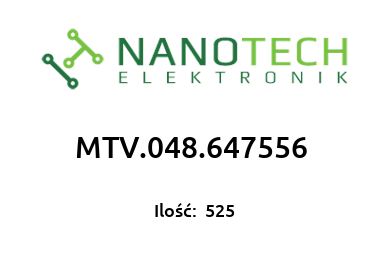
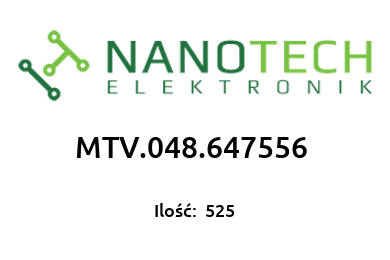
Dodanie nowych funckji

Changed region(s): [[0.0308, 0.0923, 0.9538, 0.4], [0.9231, 0.3077, 0.9538, 0.3692]]

diff --git a/main.py b/main.py
@@ -1,5 +1,9 @@
 from PIL import Image, ImageWin, ImageDraw, ImageFont
 import re
+import sys
+import win32com.client
+import win32ui
+
 
 LOGO_NANOTECH_PATH = r"assets\nanotech_logo.png"
 GENERATED_STICKERS_PATH = r"wygenerowane_naklejki"
@@ -13,71 +17,117 @@ def clean_pcb_name(text):
     cleaned_text = re.sub(r'\{.*?\}', '', text)
     return cleaned_text
 
-def generate_sticker(sticker_size:str, pcb_name:str, qty:str):
-    """ Funkcja generująca naklejkę na płytki PCB """
+def generate_sticker(pcb_name:str, qty:str):
+    """ Funkcja generująca naklejkę na płytki PCB na etykiecie o rozmiarze '50x30' 
+        Zwraca ścieżkę do naklejki"""
 
-    if sticker_size == "50x30":
+    # Utwórz pustą naklejkę
+    sticker = Image.new(mode='RGBA', size=(390,260), color='white')
+    sticker_width = sticker.size[0]
 
-        # Utwórz pustą naklejkę
-        sticker = Image.new(mode='RGBA', size=(390,260), color='white')
-        sticker_width = sticker.size[0]
+    # Utwórz 'ołówek'
+    pencil = ImageDraw.Draw(sticker)
 
-        # Utwórz 'ołówek'
-        pencil = ImageDraw.Draw(sticker)
+    # Załaduj logo
+    logo = Image.open(LOGO_NANOTECH_PATH).convert("RGBA")
 
-        # Załaduj logo
-        logo = Image.open(LOGO_NANOTECH_PATH).convert("RGBA")
+    # Tu można łatwo dostosować rozmiar loga zmieniając parametr 'percent_of_increase'
+    original_logo_w, original_logo_h = (340, 83)
+    percent_of_increase = 0.1
 
-        # Tu można łatwo dostosować rozmiar loga zmieniając parametr 'percent_of_increase'
-        original_logo_w, original_logo_h = (340, 83)
-        percent_of_increase = -0.05
+    new_logo_w = int(original_logo_w + original_logo_w * percent_of_increase)
+    new_logo_h = int(original_logo_h + original_logo_h * percent_of_increase)
 
-        new_logo_w = int(original_logo_w + original_logo_w * percent_of_increase)
-        new_logo_h = int(original_logo_h + original_logo_h * percent_of_increase)
+    logo = logo.resize((new_logo_w, new_logo_h))
 
-        logo = logo.resize((new_logo_w, new_logo_h))
+    # Dodaj logo do tła
+    sticker.paste(logo, ((sticker_width - new_logo_w) // 2 ,20), logo)
+    
+    # Załaduj czcionkę
+    font_size = 30
+    pcb_name_font = ImageFont.truetype(font=FONT_PATH, size=font_size)
 
-        # Dodaj logo do tła
-        sticker.paste(logo, ((sticker_width - new_logo_w) // 2 ,20), logo)
-        
-        # Załaduj czcionkę
-        font_size = 30
+    # Oblicz długość linijki z tekstem
+    text_lenght = pencil.textlength(text=pcb_name, font=pcb_name_font)
+
+    # Jeśli tekst jest zbyt długi zmniejsz czcionkę
+    while (text_lenght + 20) >= sticker_width:
+        font_size -= 1
         pcb_name_font = ImageFont.truetype(font=FONT_PATH, size=font_size)
-
-        # Oblicz długość linijki z tekstem
         text_lenght = pencil.textlength(text=pcb_name, font=pcb_name_font)
+        print(f"Zmniejszam czcionkę do: {font_size}")
 
-        # Jeśli tekst jest zbyt długi zmniejsz czcionkę
-        while (text_lenght + 20) >= sticker_width:
-            font_size -= 1
-            pcb_name_font = ImageFont.truetype(font=FONT_PATH, size=font_size)
-            text_lenght = pencil.textlength(text=pcb_name, font=pcb_name_font)
-            print(f"Zmniejszam czcionkę do: {font_size}")
+    # Oblicz koordynaty dla nazwy PCB
+    pcb_name_coords = ((sticker_width - text_lenght) // 2, 130)
 
-        # Oblicz koordynaty dla nazwy PCB
-        pcb_name_coords = ((sticker_width - text_lenght) // 2, 130)
+    # Dodaj napis z nazwą PCB
+    pencil.text(pcb_name_coords, pcb_name, font=pcb_name_font, fill=(0, 0, 0, 255))
 
-        # Dodaj napis z nazwą PCB
-        pencil.text(pcb_name_coords, pcb_name, font=pcb_name_font, fill=(0, 0, 0, 255))
+    # Dodaj napis 'Ilość:'
+    qty_text = f"Ilość:  {qty}"
+    qty_name_font = ImageFont.truetype(font=FONT_PATH, size=18)
+    qty_text_lenght = pencil.textlength(text=qty_text, font=qty_name_font)
+    pencil.text(((sticker_width - qty_text_lenght) // 2, 200) , qty_text, font=qty_name_font, fill=(0, 0, 0, 255))
+    
+    sticker_path = sticker.save(f"{GENERATED_STICKERS_PATH}\\the_sticker{number}.png")
+    sticker.show(f"{sticker_path}")
 
-        # Dodaj napis 'Ilość:'
-        qty_text = f"Ilość:  {qty}"
-        qty_name_font = ImageFont.truetype(font=FONT_PATH, size=18)
-        qty_text_lenght = pencil.textlength(text=qty_text, font=qty_name_font)
-        pencil.text(((sticker_width - qty_text_lenght) // 2, 200) , qty_text, font=qty_name_font, fill=(0, 0, 0, 255))
+    return sticker_path
+
+def print_sticker(sticker_path, printer_name):
+    """ Funkcja drukująca naklejkę o na etykiecie o wymiarach '50x30' """
+
+    # Inicjalizacja obiektu kontekstu urządzenia (Device Context - hDC)
+    hDC = win32ui.CreateDC()
+
+    # Utworzenie kontekstu urządzenia związanego z drukarką o określonej nazwie
+    hDC.CreatePrinterDC(printer_name)
+
+    # Otwarcie pliku z obrazkiem etykiety
+    bmp = Image.open(sticker_path)
+
+    # Rozpoczęcie drukowania - inicjacja dokumentu i strony
+    hDC.StartDoc(sticker_path)
+    hDC.StartPage()
+
+    # Utworzenie obiektu Dib na podstawie obrazka
+    dib = ImageWin.Dib(bmp)
+
+    # Narysowanie obrazka na kontekście urządzenia
+    dib.draw(hDC.GetHandleOutput(), (0, 0, 390, 260))
+
+    # Zakończenie bieżącej strony i dokumentu drukowania
+    hDC.EndPage()
+    hDC.EndDoc()
+
+    # Usunięcie obiektu kontekstu urządzenia
+    hDC.DeleteDC()
+
+
+def get_data_from_excel():
+    """ Funkcja przyjmująca dane z excela i zwracająca 'nazwę pcb' """
+
+    excel = win32com.client.Dispatch("Excel.Application")
+    excel.Visible = 1
+
+    # Odczytaj ścieżkę do pliku tymczasowego z argumentów linii poleceń
+    temp_file_path = sys.argv[1]
+
+    # Odczytaj wartość z pliku tymczasowego
+    with open(temp_file_path, 'r') as file:
+        pcb_name = file.read()
         
-        sticker.save(f"{GENERATED_STICKERS_PATH}\\the_sticker{number}.png")
-        sticker.show(f"{GENERATED_STICKERS_PATH}\\the_sticker.png")
+    return pcb_name
+
+
+# Główna pętla programu
+pcb_name = get_data_from_excel()
+print(f"Drukowanie naklejek dla PCB: '{pcb_name}'\n")
+qty = input("Podaj ilości dla każdej naklejki oddzielone spacjami np. '25 25 25 15 50 40'\n")
+for _ in qty.split():
+    sticker_path = generate_sticker(pcb_name=pcb_name, qty=qty)
+    print_sticker(sticker_path=sticker_path, printer_name="Godex DT2x")
 
 
 
-
-
-generate_sticker("50x30", clean_pcb_name("MTV.048.647556 {Mati znowu będzie się tłumaczył klientowi}"), "525")
-
-# name = input("Podaj nazwę PCB: \n")
-# qty = input("Podaj ilości PCB oddzielone spacjami np. '25 25 25 15 50 40'\n")
-
-# for _ in qty.split():
-#     generate_sticker("50x30", clean_pcb_name(name), _)
-#     number += 1
+# generate_sticker(clean_pcb_name("MTV.048.647556 {Mati znowu będzie się tłumaczył klientowi}"), "525")
